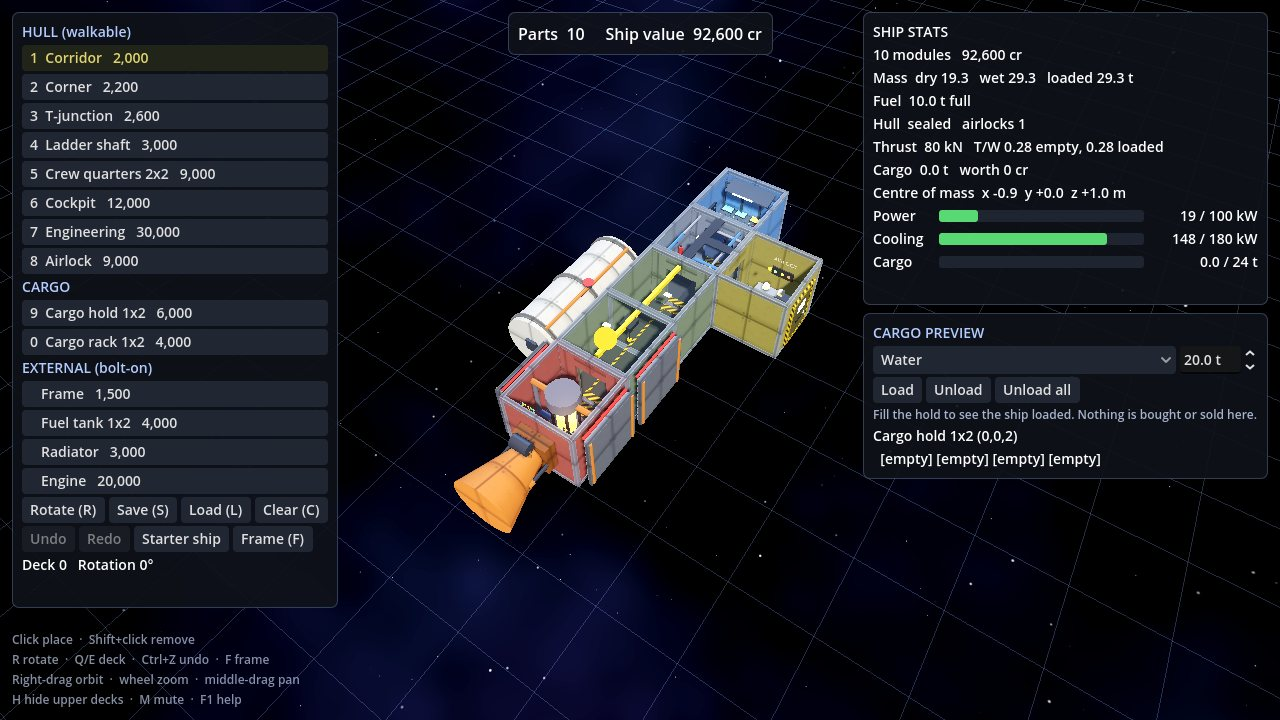
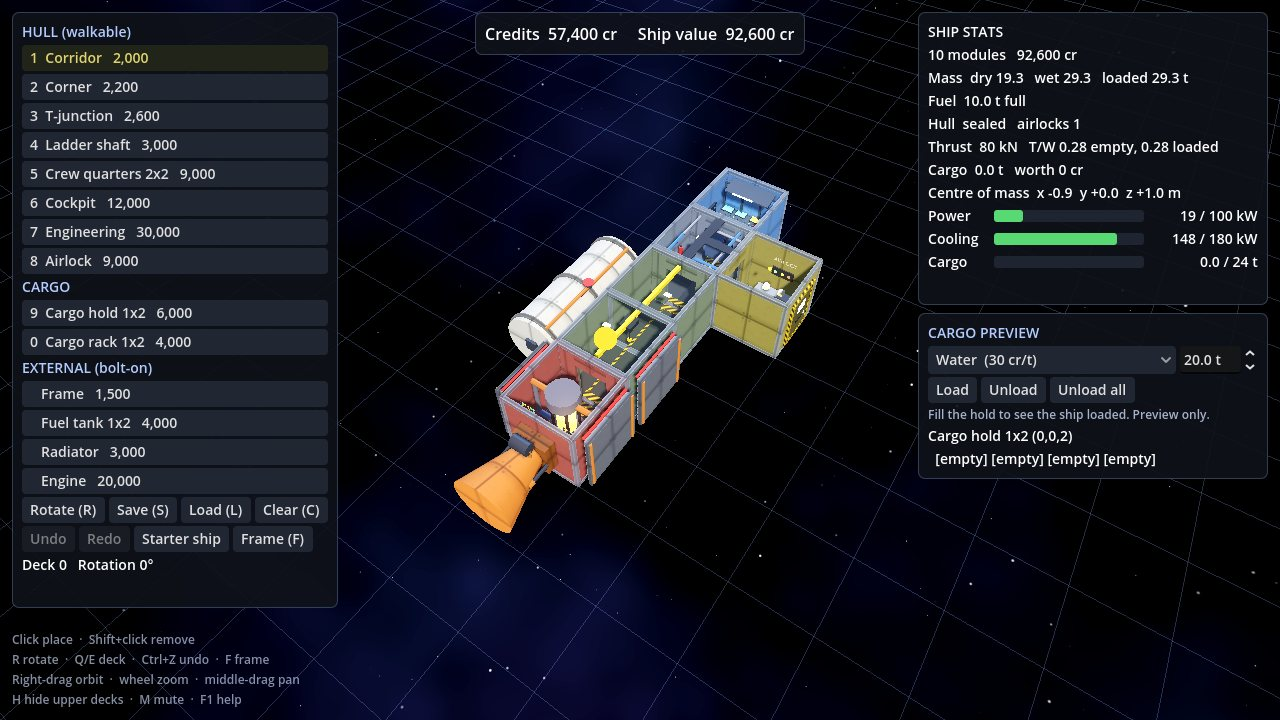
Builder keeps credits and part costs; only contracts and Run stay out
Claude-Session: https://claude.ai/code/session_017WQZxixKYwD8gqsFUSbatN

diff --git a/site/index.html b/site/index.html
@@ -44,7 +44,7 @@
       <p class="note">Runs in your browser with no install. About 10 MB on the first load. Works best on a laptop or desktop with a mouse.</p>
       <dl class="slip">
         <div><dt>Version</dt><dd>0.1.0, ship builder prototype</dd></div>
-        <div><dt>You can</dt><dd>Design a ship, check it, preview it loaded with cargo</dd></div>
+        <div><dt>You can</dt><dd>Design a ship with a credit budget, check it, preview it loaded with cargo</dd></div>
         <div><dt>Not yet</dt><dd>Flying, walking the ship, planets, space walks</dd></div>
       </dl>
     </div>
@@ -105,7 +105,7 @@
     <div class="shots">
       <figure>
         <button class="shot" data-full="img/builder-cargo.jpg" data-cap="The ship builder with the hold filled to preview a loaded ship." aria-label="Open the builder screenshot full size"><img src="img/builder-cargo.jpg" width="1280" height="720" loading="lazy" alt="The ship builder with a freighter and the hold filled with water."></button>
-        <figcaption><strong>Shipyard.</strong> Design the ship and check the engineering numbers. The cargo preview fills the hold so you can see it loaded. Nothing is bought or sold here.</figcaption>
+        <figcaption><strong>Shipyard.</strong> Design the ship and check the engineering numbers. The cargo preview fills the hold so you can see it loaded. The cargo preview does not buy or sell anything.</figcaption>
       </figure>
       <figure>
         <button class="shot" data-full="img/title.jpg" data-cap="The title screen." aria-label="Open the title screen full size"><img src="img/title.jpg" width="1280" height="720" loading="lazy" alt="The title screen with the Far Haul logo and a starter ship flying past."></button>
@@ -133,7 +133,7 @@
       </figure>
       <figure>
         <button class="shot" data-full="img/builder.jpg" data-cap="The starter ship before any cargo is loaded." aria-label="Open the starter ship screenshot full size"><img src="img/builder.jpg" width="1280" height="720" loading="lazy" alt="The ship builder showing the starter ship with an empty hold."></button>
-        <figcaption><strong>Starter ship.</strong> The builder starts with this hauler. Change it however you like.</figcaption>
+        <figcaption><strong>Starter ship.</strong> Every new game begins with this hauler and 150,000 credits.</figcaption>
       </figure>
       <figure>
         <button class="shot" data-full="img/intro.jpg" data-cap="A frame from the placeholder intro video." aria-label="Open the intro frame full size"><img src="img/intro.jpg" width="1280" height="720" loading="lazy" alt="The end of the intro video: the Far Haul logo and tagline on a starfield."></button>
@@ -148,7 +148,7 @@
   <div class="band"></div>
   <div class="body">
     <h2 id="help-h">Help</h2>
-    <p class="lede">The builder starts with a ready-made hauler and every part is free. Change it, check it, save it.</p>
+    <p class="lede">You start with a ready-made hauler and 150,000 credits. Change it, check it, save it.</p>
 
     <div class="cols">
       <div>
@@ -157,7 +157,7 @@
           <li>Press <strong>Launch game</strong>, then <strong>Start</strong> on the title screen.</li>
           <li>Look at the ship. Click a part in the palette on the left, then click next to the ship to place it. Green means it fits. Red tells you why not.</li>
           <li>Watch the power, cooling and cargo meters and the warnings on the right. Each warning says what is missing.</li>
-          <li>Use <strong>Cargo preview</strong> to fill the hold and see the ship loaded. This only changes how the ship looks and weighs. Nothing is bought or sold.</li>
+          <li>Use <strong>Cargo preview</strong> to fill the hold and see the ship loaded. This only changes how the ship looks and weighs. It does not buy or sell anything.</li>
           <li>Press <kbd>S</kbd> to save. Your ship also autosaves.</li>
         </ol>
 
@@ -203,11 +203,11 @@
     </details>
     <details>
       <summary>I cannot place a part. Why?</summary>
-      <p>Move the cursor over the ship and read the red message under it. The usual reasons are overlapping another module, no matching door or mount on the neighbouring part, or a doorway that is blocked.</p>
+      <p>Move the cursor over the ship and read the red message under it. The usual reasons are overlapping another module, no matching door or mount on the neighbouring part, or not enough credits.</p>
     </details>
     <details>
-      <summary>Why does the builder have no contracts or money?</summary>
-      <p>The builder is only for designing the ship. Contracts, prices and payment belong to the game itself, which comes after flight is built. The cargo preview is there so you can see and weigh a loaded ship.</p>
+      <summary>Why does the builder have no contracts?</summary>
+      <p>The builder is only for designing the ship. Parts cost credits from your starting funds, but contracts and payment belong to the game itself, which comes after flight is built. The cargo preview is there so you can see and weigh a loaded ship.</p>
     </details>
     <details>
       <summary>There is no sound.</summary>

diff --git a/README.md b/README.md
@@ -24,12 +24,12 @@ New game, Quit). Any key skips the splash and the intro. Set `FARHAUL_SKIP_INTRO
 
 ## How to play
 
-The builder is a free-build ship designer. Parts cost nothing, and there are no contracts or money here.
+The builder is a ship designer. You start with a small hauler and 150,000 credits. Contracts and flight belong to the game proper and are not in the builder.
 
-1. **Build.** The ghost is green if a part fits and red with the reason if not. If your current rotation
+1. **Build.** Parts cost credits (refunded in full if you remove them). The ghost is green if a part fits and red with the reason if not. If your current rotation
    doesn't fit, it turns to one that does. Cyan rings mark open doorways: cap them so the hull is sealed.
 2. **Check.** The panel on the right shows power, cooling, thrust-to-weight and warnings.
-3. **Cargo preview.** Fill the hold to see and weigh the ship loaded. Nothing is bought or sold.
+3. **Cargo preview.** Fill the hold to see and weigh the ship loaded. It does not buy or sell anything.
 
 A ship needs a cockpit, an engine, a sealed hull, an airlock, enough power and cooling, and enough
 thrust-to-weight when loaded. Your progress autosaves.
